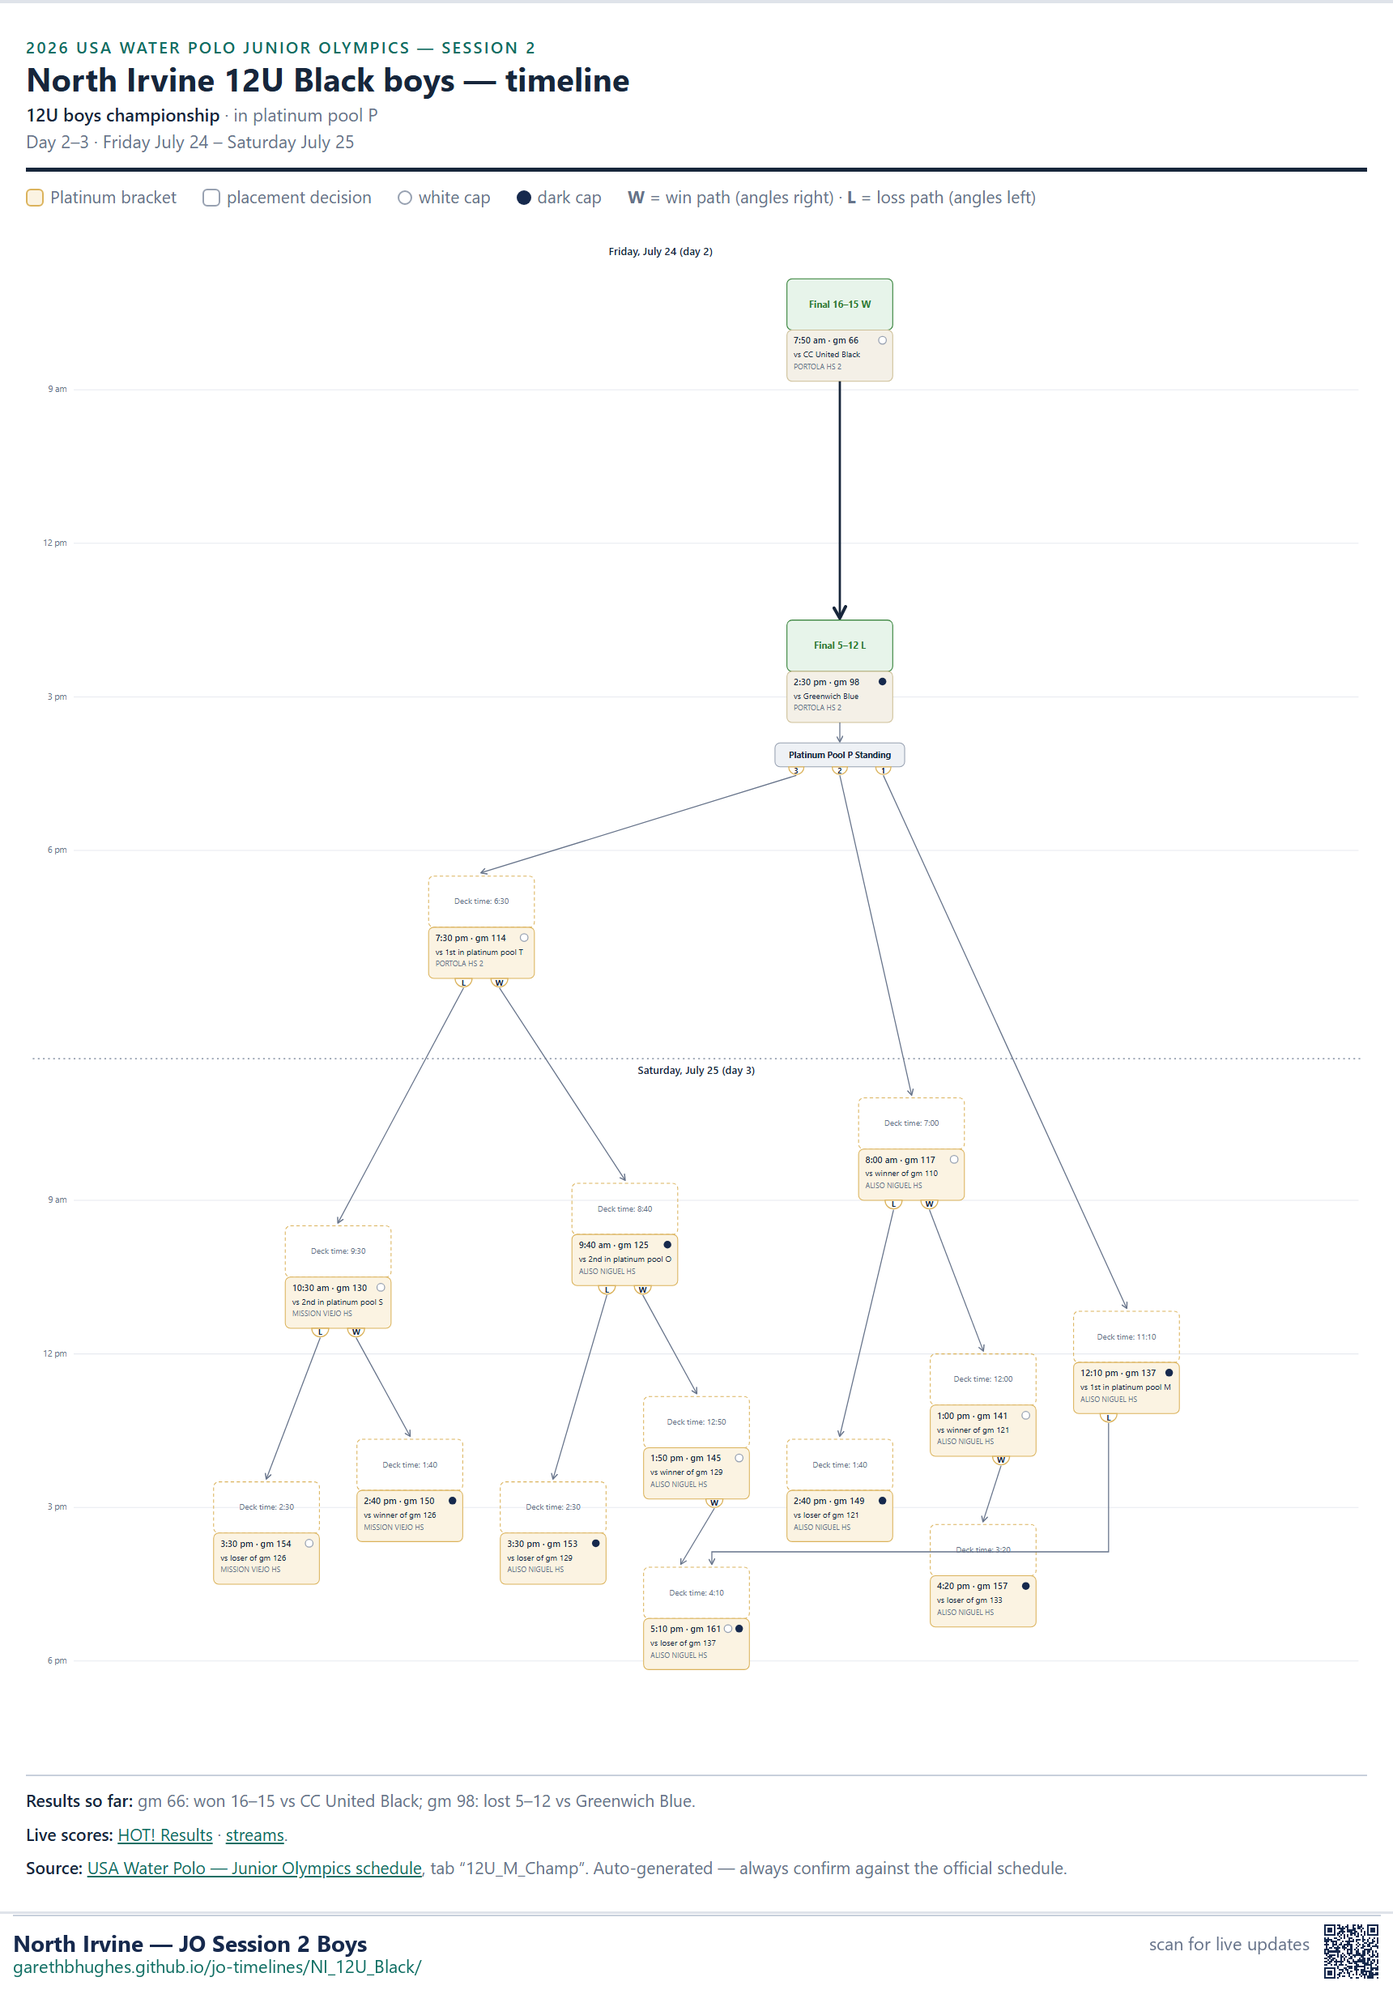
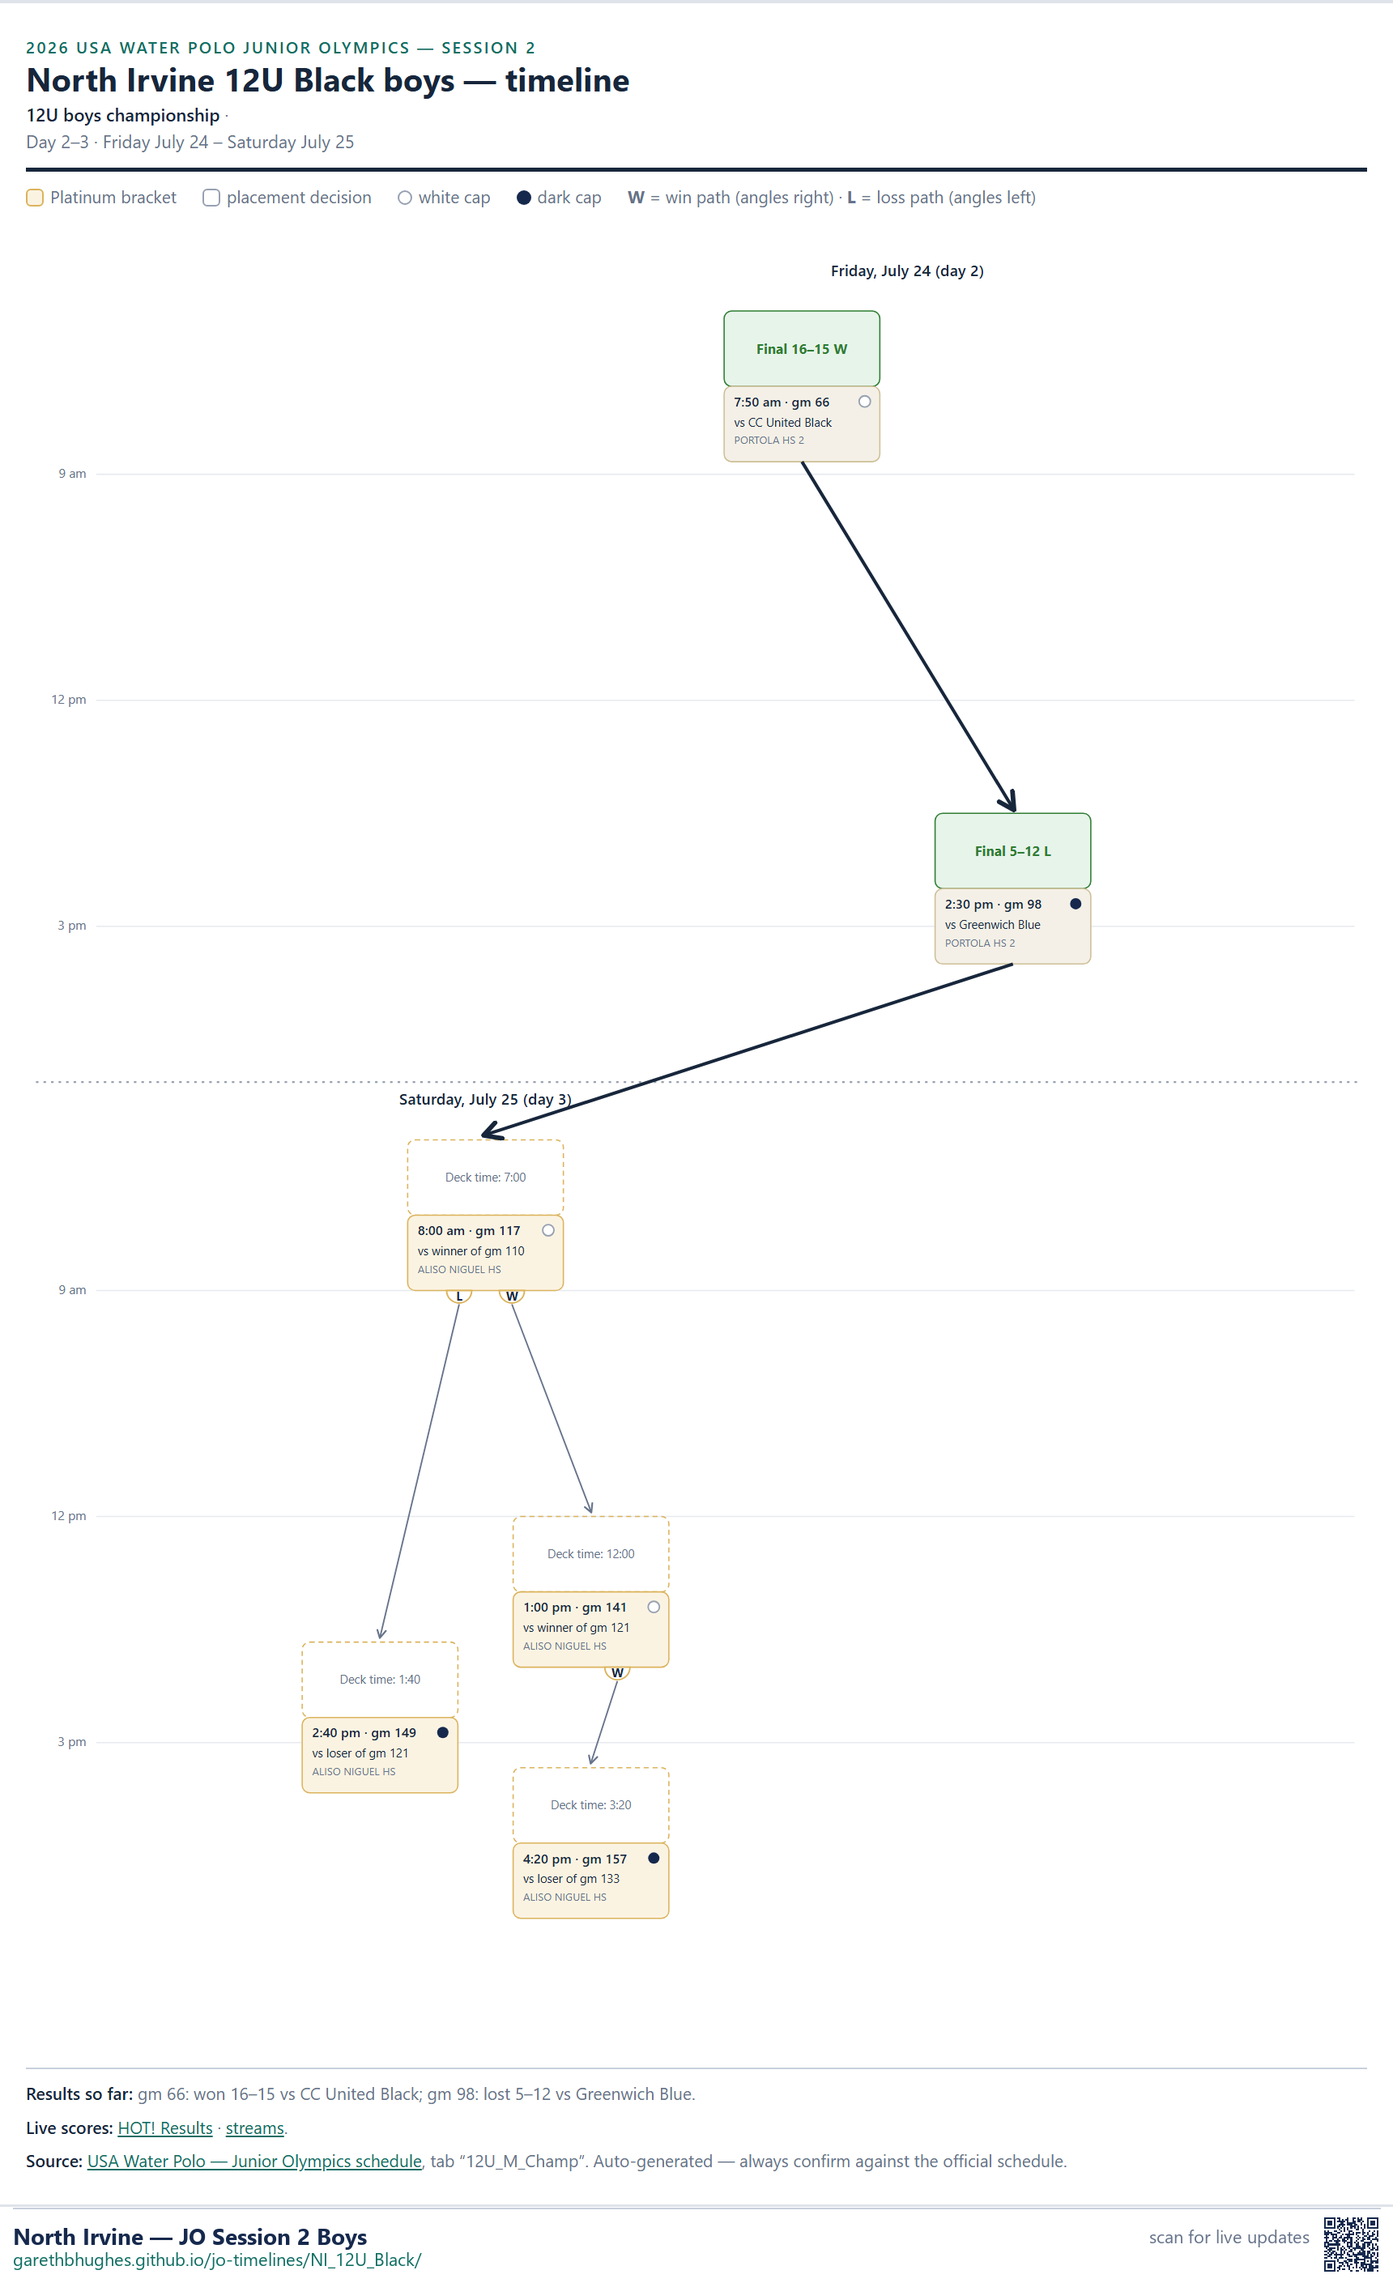
refresh 2026-07-24T16:37

diff --git a/NI_12U_Red/index.html b/NI_12U_Red/index.html
@@ -56,10 +56,10 @@ h2 { font-size:14px; text-transform:uppercase; letter-spacing:.06em; color:var(-
 <header class="site" style="margin-top:8px"><p class="eyebrow">2026 USA Water Polo Junior Olympics — Session 2</p>
 <h1>North Irvine 12U Red boys</h1>
 <p class="stamp"><b>12U boys classic</b> · in bronze pool S<br>
-Last verified against the master schedule at Friday July 24, 4:21 PM</p></header>
+Last verified against the master schedule at Friday July 24, 4:36 PM</p></header>
 <div class="next"><p class="next-h">Next game</p><p class="next-opp">vs 1st in bronze pool M</p><dl class="next-grid"><dt>When</dt><dd>Saturday July 25 · 9:40 am</dd><dt>Deck</dt><dd>8:40</dd><dt>Where</dt><dd>GOLDEN WEST COLLEGE 2</dd><dt>Caps</dt><dd>cap TBD</dd><dt>Game</dt><dd>#116</dd></dl></div>
 
 <img class="tl" src="portrait.png" alt="Upcoming games timeline for North Irvine 12U Red boys">
-<h2>Change log</h2><ul class="log"><li><time>4:21 PM</time>Game 116 set: vs 1st in bronze pool M, 9:40 am at GOLDEN WEST COLLEGE 2.</li><li><time>4:21 PM</time>Game 131 set: vs 2nd in bronze pool M, 9:40 am at LAGUNA HILLS HS.</li><li><time>4:21 PM</time>Game 97 score updated (vs American River).</li><li><time>3:31 PM</time>Game 81 score updated (vs Foothill Black).</li><li><time>3:31 PM</time>Game 97 set: vs American River, 2:30 pm at OCEAN VIEW HS 2.</li><li><time>3:31 PM</time>Game 111 set: vs Orwp RED, 5:50 pm at OCEAN VIEW HS 2.</li><li><time>3:27 PM</time>Game 81 score updated (vs Foothill Black).</li><li><time>3:27 PM</time>Game 97 set: vs American River, 2:30 pm at OCEAN VIEW HS 2.</li><li><time>3:27 PM</time>Game 111 set: vs Orwp RED, 5:50 pm at OCEAN VIEW HS 2.</li><li><time>7:00 AM</time>Game 67 score updated (vs ag_N2(1stO)-).</li><li><time>7:00 AM</time>Game 27 score updated (vs CC United White).</li><li><time>7:00 AM</time>Game 81 score updated (vs bronze pool S).</li><li><time>7:00 AM</time>Game 83 score updated (vs ag_N1(1stB)-).</li><li><time>7:00 AM</time>Game 46 score updated (vs Mission B).</li><li><time>7:00 AM</time>Game 60 score updated (vs 2nd N).</li><li><time>1:11 PM</time>Game 81 score updated (vs Foothill Black).</li><li><time>1:11 PM</time>Game 97 set: vs American River, 2:30 pm at OCEAN VIEW HS 2.</li><li><time>1:11 PM</time>Game 111 set: vs Orwp RED, 5:50 pm at OCEAN VIEW HS 2.</li><li><time>7:00 AM</time>Game 67 score updated (vs ag_N2(1stO)-).</li><li><time>7:00 AM</time>Game 27 score updated (vs CC United White).</li><li><time>7:00 AM</time>Game 81 score updated (vs bronze pool S).</li><li><time>7:00 AM</time>Game 83 set: vs ag_N1(1stB)-, 12:50 pm at GOLDEN WEST COLLEGE 2.</li><li><time>7:00 AM</time>Game 46 score updated (vs Mission B).</li><li><time>7:00 AM</time>Game 60 score updated (vs 2nd N).</li><li><time>12:40 PM</time>Game 81 score updated (vs Foothill Black).</li><li><time>12:40 PM</time>Game 97 set: vs American River, 2:30 pm at OCEAN VIEW HS 2.</li><li><time>12:40 PM</time>Game 111 set: vs Orwp RED, 5:50 pm at OCEAN VIEW HS 2.</li><li><time>12:25 PM</time>Game 97 set: vs American River, 2:30 pm at OCEAN VIEW HS 2.</li><li><time>12:25 PM</time>Game 111 set: vs Orwp RED, 5:50 pm at OCEAN VIEW HS 2.</li><li><time>11:36 AM</time>Game 81 set: vs Foothill Black, 11:10 am at OCEAN VIEW HS 2.</li><li><time>7:00 AM</time>Game 67 score updated (vs ag_N2(1stO)-).</li><li><time>7:00 AM</time>Game 27 score updated (vs CC United White).</li><li><time>7:00 AM</time>Game 81 set: vs bronze pool S, 11:10 am at OCEAN VIEW HS 2.</li><li><time>7:00 AM</time>Game 83 set: vs ag_N1(1stB)-, 12:50 pm at GOLDEN WEST COLLEGE 2.</li><li><time>7:00 AM</time>Game 46 score updated (vs Mission B).</li><li><time>7:00 AM</time>Game 60 score updated (vs 2nd N).</li><li><time>9:53 AM</time>Game 81 set: vs Foothill Black, 11:10 am at OCEAN VIEW HS 2.</li><li><time>7:00 AM</time>Game 67 set: vs ag_N2(1stO)-, 9:30 am at GOLDEN WEST COLLEGE 2.</li><li><time>7:00 AM</time>Game 27 score updated (vs CC United White).</li><li><time>7:00 AM</time>Game 81 set: vs bronze pool S, 11:10 am at OCEAN VIEW HS 2.</li></ul>
+<h2>Change log</h2><ul class="log"><li><time>4:36 PM</time>Game 132 set: vs bronze pool V, 1:50 pm at OCEAN VIEW HS 2.</li><li><time>4:21 PM</time>Game 116 set: vs 1st in bronze pool M, 9:40 am at GOLDEN WEST COLLEGE 2.</li><li><time>4:21 PM</time>Game 131 set: vs 2nd in bronze pool M, 9:40 am at LAGUNA HILLS HS.</li><li><time>4:21 PM</time>Game 97 score updated (vs American River).</li><li><time>3:31 PM</time>Game 81 score updated (vs Foothill Black).</li><li><time>3:31 PM</time>Game 97 set: vs American River, 2:30 pm at OCEAN VIEW HS 2.</li><li><time>3:31 PM</time>Game 111 set: vs Orwp RED, 5:50 pm at OCEAN VIEW HS 2.</li><li><time>3:27 PM</time>Game 81 score updated (vs Foothill Black).</li><li><time>3:27 PM</time>Game 97 set: vs American River, 2:30 pm at OCEAN VIEW HS 2.</li><li><time>3:27 PM</time>Game 111 set: vs Orwp RED, 5:50 pm at OCEAN VIEW HS 2.</li><li><time>7:00 AM</time>Game 67 score updated (vs ag_N2(1stO)-).</li><li><time>7:00 AM</time>Game 27 score updated (vs CC United White).</li><li><time>7:00 AM</time>Game 81 score updated (vs bronze pool S).</li><li><time>7:00 AM</time>Game 83 score updated (vs ag_N1(1stB)-).</li><li><time>7:00 AM</time>Game 46 score updated (vs Mission B).</li><li><time>7:00 AM</time>Game 60 score updated (vs 2nd N).</li><li><time>1:11 PM</time>Game 81 score updated (vs Foothill Black).</li><li><time>1:11 PM</time>Game 97 set: vs American River, 2:30 pm at OCEAN VIEW HS 2.</li><li><time>1:11 PM</time>Game 111 set: vs Orwp RED, 5:50 pm at OCEAN VIEW HS 2.</li><li><time>7:00 AM</time>Game 67 score updated (vs ag_N2(1stO)-).</li><li><time>7:00 AM</time>Game 27 score updated (vs CC United White).</li><li><time>7:00 AM</time>Game 81 score updated (vs bronze pool S).</li><li><time>7:00 AM</time>Game 83 set: vs ag_N1(1stB)-, 12:50 pm at GOLDEN WEST COLLEGE 2.</li><li><time>7:00 AM</time>Game 46 score updated (vs Mission B).</li><li><time>7:00 AM</time>Game 60 score updated (vs 2nd N).</li><li><time>12:40 PM</time>Game 81 score updated (vs Foothill Black).</li><li><time>12:40 PM</time>Game 97 set: vs American River, 2:30 pm at OCEAN VIEW HS 2.</li><li><time>12:40 PM</time>Game 111 set: vs Orwp RED, 5:50 pm at OCEAN VIEW HS 2.</li><li><time>12:25 PM</time>Game 97 set: vs American River, 2:30 pm at OCEAN VIEW HS 2.</li><li><time>12:25 PM</time>Game 111 set: vs Orwp RED, 5:50 pm at OCEAN VIEW HS 2.</li><li><time>11:36 AM</time>Game 81 set: vs Foothill Black, 11:10 am at OCEAN VIEW HS 2.</li><li><time>7:00 AM</time>Game 67 score updated (vs ag_N2(1stO)-).</li><li><time>7:00 AM</time>Game 27 score updated (vs CC United White).</li><li><time>7:00 AM</time>Game 81 set: vs bronze pool S, 11:10 am at OCEAN VIEW HS 2.</li><li><time>7:00 AM</time>Game 83 set: vs ag_N1(1stB)-, 12:50 pm at GOLDEN WEST COLLEGE 2.</li><li><time>7:00 AM</time>Game 46 score updated (vs Mission B).</li><li><time>7:00 AM</time>Game 60 score updated (vs 2nd N).</li><li><time>9:53 AM</time>Game 81 set: vs Foothill Black, 11:10 am at OCEAN VIEW HS 2.</li><li><time>7:00 AM</time>Game 67 set: vs ag_N2(1stO)-, 9:30 am at GOLDEN WEST COLLEGE 2.</li><li><time>7:00 AM</time>Game 27 score updated (vs CC United White).</li></ul>
 <div class="fineprint"><p><b>Results so far:</b> gm 81: won 13–6 vs Foothill Black; gm 97: lost 3–7 vs American River.</p><p><b>Live scores:</b> <a href="https://kahunaevents.org">HOT! Results</a> · <a href="https://gols.co/2026-usawp-junior-olympics-session-2/">streams</a>.</p><p><b>Source:</b> <a href="https://usawaterpolo.org/sports/2018/12/19/junior-olympics.aspx#schedule">USA Water Polo — Junior Olympics schedule</a>, tab “12U_M_Classic_53”. Auto-generated — always confirm against the official schedule.</p></div>
 </div></body></html>

diff --git a/NI_12U_Black/index.html b/NI_12U_Black/index.html
@@ -55,11 +55,11 @@ h2 { font-size:14px; text-transform:uppercase; letter-spacing:.06em; color:var(-
 <a class="back" href="../">← all North Irvine teams</a>
 <header class="site" style="margin-top:8px"><p class="eyebrow">2026 USA Water Polo Junior Olympics — Session 2</p>
 <h1>North Irvine 12U Black boys</h1>
-<p class="stamp"><b>12U boys championship</b> · in platinum pool P<br>
-Last verified against the master schedule at Friday July 24, 4:21 PM</p></header>
-
+<p class="stamp"><b>12U boys championship</b> · <br>
+Last verified against the master schedule at Friday July 24, 4:36 PM</p></header>
+<div class="next"><p class="next-h">Next game</p><p class="next-opp">vs winner of gm 110</p><dl class="next-grid"><dt>When</dt><dd>Saturday July 25 · 8:00 am</dd><dt>Deck</dt><dd>7:00</dd><dt>Where</dt><dd>ALISO NIGUEL HS</dd><dt>Caps</dt><dd>white caps</dd><dt>Game</dt><dd>#117</dd></dl></div>
 
 <img class="tl" src="portrait.png" alt="Upcoming games timeline for North Irvine 12U Black boys">
-<h2>Change log</h2><ul class="log"><li><time>4:21 PM</time>Game 98 score updated (vs Greenwich Blue).</li><li><time>3:31 PM</time>Game 66 score updated (vs CC United Black).</li><li><time>3:31 PM</time>Game 98 set: vs Greenwich Blue, 2:30 pm at PORTOLA HS 2.</li><li><time>3:27 PM</time>Game 66 score updated (vs CC United Black).</li><li><time>3:27 PM</time>Game 98 set: vs Greenwich Blue, 2:30 pm at PORTOLA HS 2.</li><li><time>8:42 AM</time>Game 10 score updated (vs Topaz Tsunami).</li><li><time>8:42 AM</time>Game 34 time changed to 2:00 pm (vs winner of gm 14).</li></ul>
+<h2>Change log</h2><ul class="log"><li><time>4:36 PM</time>Game 117 set: vs winner of gm 110, 8:00 am at ALISO NIGUEL HS.</li><li><time>4:21 PM</time>Game 98 score updated (vs Greenwich Blue).</li><li><time>3:31 PM</time>Game 66 score updated (vs CC United Black).</li><li><time>3:31 PM</time>Game 98 set: vs Greenwich Blue, 2:30 pm at PORTOLA HS 2.</li><li><time>3:27 PM</time>Game 66 score updated (vs CC United Black).</li><li><time>3:27 PM</time>Game 98 set: vs Greenwich Blue, 2:30 pm at PORTOLA HS 2.</li><li><time>8:42 AM</time>Game 10 score updated (vs Topaz Tsunami).</li><li><time>8:42 AM</time>Game 34 time changed to 2:00 pm (vs winner of gm 14).</li></ul>
 <div class="fineprint"><p><b>Results so far:</b> gm 66: won 16–15 vs CC United Black; gm 98: lost 5–12 vs Greenwich Blue.</p><p><b>Live scores:</b> <a href="https://kahunaevents.org">HOT! Results</a> · <a href="https://gols.co/2026-usawp-junior-olympics-session-2/">streams</a>.</p><p><b>Source:</b> <a href="https://usawaterpolo.org/sports/2018/12/19/junior-olympics.aspx#schedule">USA Water Polo — Junior Olympics schedule</a>, tab “12U_M_Champ”. Auto-generated — always confirm against the official schedule.</p></div>
 </div></body></html>

diff --git a/index.html b/index.html
@@ -54,7 +54,7 @@ h2 { font-size:14px; text-transform:uppercase; letter-spacing:.06em; color:var(-
 </style></head><body><div class="wrap">
 <header class="site"><p class="eyebrow">2026 USA Water Polo Junior Olympics — Session 2</p>
 <h1>North Irvine — JO Session 2 Boys</h1>
-<p class="stamp">Last refreshed Friday July 24, 4:21 PM · auto-updates from the master schedule</p></header>
+<p class="stamp">Last refreshed Friday July 24, 4:36 PM · auto-updates from the master schedule</p></header>
 <p>Tap your team for the up-to-date timeline (win/loss paths, times, venues, deck times):</p>
 <ul class="teams"><a href="NI_12U_Black/"><span>North Irvine 12U Black boys</span><span class="div">12U boys championship →</span></a><a href="NI_14U_Black/"><span>North Irvine 14U Black boys</span><span class="div">14U boys championship →</span></a><a href="NI_18U_Black/"><span>North Irvine 18U Black boys</span><span class="div">18U boys championship →</span></a><a href="NI_18U_Red/"><span>North Irvine 18U Red boys</span><span class="div">18U boys championship →</span></a><a href="NI_12U_Red/"><span>North Irvine 12U Red boys</span><span class="div">12U boys classic →</span></a><a href="NI_14U_Red/"><span>North Irvine 14U Red boys</span><span class="div">14U boys invite →</span></a></ul>
 <p class="links"><b>Live scores:</b> <a href="https://kahunaevents.org">HOT! Results</a> ·

diff --git a/NI_18U_Black/index.html b/NI_18U_Black/index.html
@@ -56,7 +56,7 @@ h2 { font-size:14px; text-transform:uppercase; letter-spacing:.06em; color:var(-
 <header class="site" style="margin-top:8px"><p class="eyebrow">2026 USA Water Polo Junior Olympics — Session 2</p>
 <h1>North Irvine 18U Black boys</h1>
 <p class="stamp"><b>18U boys championship</b> · in platinum pool S<br>
-Last verified against the master schedule at Friday July 24, 4:21 PM</p></header>
+Last verified against the master schedule at Friday July 24, 4:36 PM</p></header>
 <div class="next"><p class="next-h">Next game</p><p class="next-opp">vs Shaq Blue</p><dl class="next-grid"><dt>When</dt><dd>Friday July 24 · 4:00 pm</dd><dt>Deck</dt><dd>3:00</dd><dt>Where</dt><dd>JSERRA CHS</dd><dt>Caps</dt><dd>dark caps</dd><dt>Game</dt><dd>#108</dd></dl><p class="scout"><b>Scouting report:</b> Shaq Blue (seed 29) is 2–2 in this session so far — beat Pegasus Blue 20–8; beat Foothill Red A 15–7; lost to La Jolla United A 7–13; lost to Greenwich 7–12. They&#x27;re averaging 12.2 goals for and 10 against. Common opponent Greenwich: you lost 13–16, they lost 7–12.</p></div>
 
 <img class="tl" src="portrait.png" alt="Upcoming games timeline for North Irvine 18U Black boys">

diff --git a/NI_14U_Black/index.html b/NI_14U_Black/index.html
@@ -56,7 +56,7 @@ h2 { font-size:14px; text-transform:uppercase; letter-spacing:.06em; color:var(-
 <header class="site" style="margin-top:8px"><p class="eyebrow">2026 USA Water Polo Junior Olympics — Session 2</p>
 <h1>North Irvine 14U Black boys</h1>
 <p class="stamp"><b>14U boys championship</b> · in gold pool N<br>
-Last verified against the master schedule at Friday July 24, 4:21 PM</p></header>
+Last verified against the master schedule at Friday July 24, 4:36 PM</p></header>
 <div class="next"><p class="next-h">Next game</p><p class="next-opp">vs Texas Thunder</p><dl class="next-grid"><dt>When</dt><dd>Friday July 24 · 4:10 pm</dd><dt>Deck</dt><dd>3:10</dd><dt>Where</dt><dd>EL MODENA HS</dd><dt>Caps</dt><dd>white caps</dd><dt>Game</dt><dd>#107</dd></dl><p class="scout"><b>Scouting report:</b> Texas Thunder (seed 31) is 1–3 in this session so far — beat Punahou 15–5; lost to Cc United Black 7–15; lost to Sd Shores Black 4–17; lost to Pegasus 2–16. They&#x27;re averaging 7 goals for and 13.2 against. Common opponent Pegasus: you won 11–5, they lost 2–16.</p></div>
 
 <img class="tl" src="portrait.png" alt="Upcoming games timeline for North Irvine 14U Black boys">

diff --git a/NI_18U_Red/index.html b/NI_18U_Red/index.html
@@ -56,7 +56,7 @@ h2 { font-size:14px; text-transform:uppercase; letter-spacing:.06em; color:var(-
 <header class="site" style="margin-top:8px"><p class="eyebrow">2026 USA Water Polo Junior Olympics — Session 2</p>
 <h1>North Irvine 18U Red boys</h1>
 <p class="stamp"><b>18U boys championship</b> · in gold pool S<br>
-Last verified against the master schedule at Friday July 24, 4:21 PM</p></header>
+Last verified against the master schedule at Friday July 24, 4:36 PM</p></header>
 <div class="next"><p class="next-h">Next game</p><p class="next-opp">vs 3rd in gold pool T</p><dl class="next-grid"><dt>When</dt><dd>Saturday July 25 · 9:00 am</dd><dt>Deck</dt><dd>8:00</dd><dt>Where</dt><dd>WESTMINSTER HS</dd><dt>Caps</dt><dd>dark caps</dd><dt>Game</dt><dd>#124</dd></dl></div>
 
 <img class="tl" src="portrait.png" alt="Upcoming games timeline for North Irvine 18U Red boys">

diff --git a/NI_14U_Red/index.html b/NI_14U_Red/index.html
@@ -56,7 +56,7 @@ h2 { font-size:14px; text-transform:uppercase; letter-spacing:.06em; color:var(-
 <header class="site" style="margin-top:8px"><p class="eyebrow">2026 USA Water Polo Junior Olympics — Session 2</p>
 <h1>North Irvine 14U Red boys</h1>
 <p class="stamp"><b>14U boys invite</b> · in nickel pool N<br>
-Last verified against the master schedule at Friday July 24, 4:21 PM</p></header>
+Last verified against the master schedule at Friday July 24, 4:36 PM</p></header>
 <div class="next"><p class="next-h">Next game</p><p class="next-opp">vs 1st in nickel pool R</p><dl class="next-grid"><dt>When</dt><dd>Friday July 24 · 7:30 pm</dd><dt>Deck</dt><dd>6:30</dd><dt>Where</dt><dd>VILLA PARK HS</dd><dt>Caps</dt><dd>white caps</dd><dt>Game</dt><dd>#88</dd></dl></div>
 
 <img class="tl" src="portrait.png" alt="Upcoming games timeline for North Irvine 14U Red boys">
